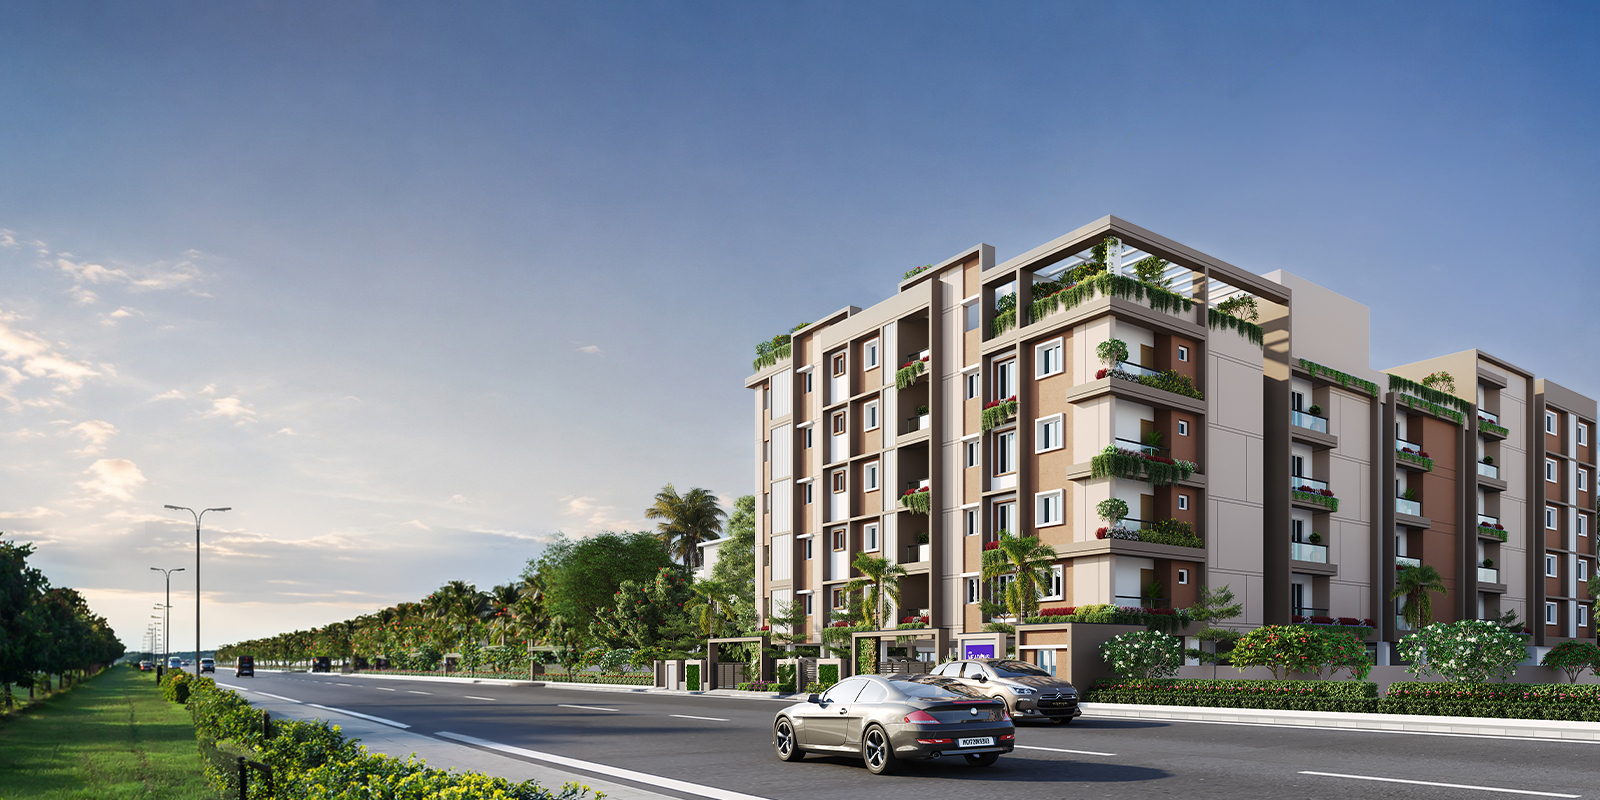
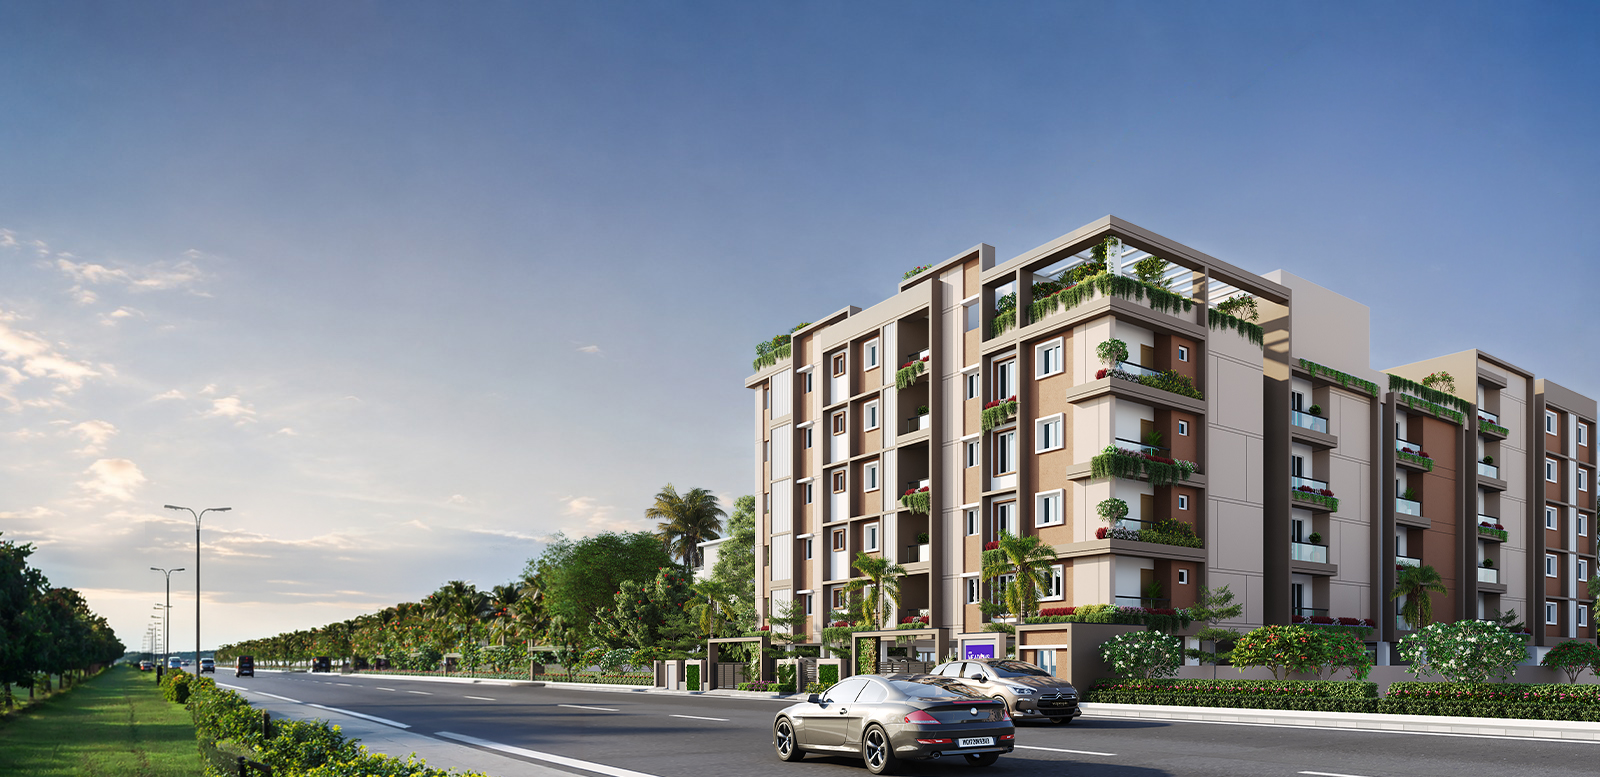
added social media links

diff --git a/style.css b/style.css
@@ -2087,6 +2087,35 @@ button {
     font-size: 0.85rem;
 }
 
+.footer-social-links {
+    display: flex;
+    gap: 12px;
+    margin-top: 20px;
+}
+
+.footer-links .footer-social-links a {
+    width: 38px;
+    height: 38px;
+    border-radius: 50%;
+    background-color: var(--light-purple);
+    color: var(--primary);
+    display: flex;
+    align-items: center;
+    justify-content: center;
+    transition: var(--transition-smooth);
+    border: 1px solid var(--border-color);
+    margin-bottom: 0;
+    padding-left: 0;
+}
+
+.footer-links .footer-social-links a:hover {
+    background-color: var(--primary) !important;
+    color: var(--white) !important;
+    transform: translateY(-3px);
+    box-shadow: var(--shadow-md);
+    padding-left: 0 !important;
+}
+
 .footer-links h4,
 .footer-contact-details h4 {
     font-family: var(--font-heading);

diff --git a/index.html b/index.html
@@ -766,14 +766,14 @@
                             <span class="browser-dot yellow"></span>
                             <span class="browser-dot green"></span>
                         </div>
-                        <span class="browser-address">youtube.com/watch?v=hQBlTHXsWDc</span>
+                        <span class="browser-address">youtube.com/watch?v=AsI9mY4RGso</span>
                         <span class="browser-status-badge live">Walkthrough</span>
                     </div>
                     <div class="browser-content">
-                        <div class="video-placeholder" id="video-placeholder" data-video-id="hQBlTHXsWDc">
+                        <div class="video-placeholder" id="video-placeholder" data-video-id="AsI9mY4RGso">
                             <!-- Video Thumbnail Background -->
                             <div class="video-thumbnail-bg"
-                                style="background-image: url('https://img.youtube.com/vi/hQBlTHXsWDc/maxresdefault.jpg');">
+                                style="background-image: url('https://img.youtube.com/vi/AsI9mY4RGso/maxresdefault.jpg');">
                             </div>
 
                             <!-- Video Header Overlay -->
@@ -803,7 +803,7 @@
                                         <path d="M14 9V5l7 7-7 7v-4.1c-5 0-8.5 1.6-11 5.1 1-5 4-10 11-11z" />
                                     </svg>
                                 </button>
-                                <a href="https://www.youtube.com/watch?v=hQBlTHXsWDc" target="_blank"
+                                <a href="https://www.youtube.com/watch?v=AsI9mY4RGso" target="_blank"
                                     class="video-watch-on-yt">
                                     <span>Watch on</span>
                                     <svg viewBox="0 0 52 12" class="yt-logo-svg" width="52" height="12">
@@ -967,6 +967,17 @@
                         <li><a href="#amenities">Amenities</a></li>
                         <li><a href="#location">Location Advantages</a></li>
                     </ul>
+                    <div class="footer-social-links">
+                        <a href="https://www.facebook.com/assettreehomes" target="_blank" aria-label="Facebook">
+                            <svg width="18" height="18" viewBox="0 0 24 24" fill="currentColor"><path d="M9 8H7v3h2v9h3v-9h3l.5-3H12V6c0-.88.22-1 1-1h2V2h-3c-3.1 0-5 1.57-5 4.5V8z"/></svg>
+                        </a>
+                        <a href="https://www.instagram.com/assettreehomes/" target="_blank" aria-label="Instagram">
+                            <svg width="18" height="18" viewBox="0 0 24 24" fill="none" stroke="currentColor" stroke-width="2" stroke-linecap="round" stroke-linejoin="round"><rect x="2" y="2" width="20" height="20" rx="5" ry="5"/><path d="M16 11.37A4 4 0 1 1 12.63 8 4 4 0 0 1 16 11.37z"/><line x1="17.5" y1="6.5" x2="17.51" y2="6.5"/></svg>
+                        </a>
+                        <a href="https://youtube.com/watch?v=AsI9mY4RGso&feature=youtu.be" target="_blank" aria-label="YouTube">
+                            <svg width="18" height="18" viewBox="0 0 24 24" fill="currentColor"><path d="M23.498 6.163a3.003 3.003 0 0 0-2.11-2.11C19.518 3.545 12 3.545 12 3.545s-7.518 0-9.388.508a3.003 3.003 0 0 0-2.11 2.11C0 8.033 0 12 0 12s0 3.967.502 5.837a3.003 3.003 0 0 0 2.11 2.11c1.87.508 9.388.508 9.388.508s7.518 0 9.388-.508a3.003 3.003 0 0 0 2.11-2.11C24 15.967 24 12 24 12s0-3.967-.502-5.837zM9.545 15.568V8.432L15.818 12l-6.273 3.568z"/></svg>
+                        </a>
+                    </div>
                 </div>
 
                 <div class="footer-contact-details">
@@ -1016,8 +1027,7 @@
                     Enquire Now
                 </h3>
                 <p style="font-size: 0.85rem; color: var(--gray-text); margin-bottom: 20px;">
-                    Please fill out your details below to download the high-resolution PDF brochure, layouts, and
-                    pricing catalogs.
+                    Please fill out your details below and our sales team will get back to you shortly.
                 </p>
 
                 <form id="popup-lead-form" class="lead-form" style="display: flex; flex-direction: column; gap: 16px;">
@@ -1081,9 +1091,9 @@
                 </div>
                 <h4
                     style="font-family: var(--font-heading); font-size: 1.4rem; font-weight: 700; color: var(--primary); margin-bottom: 12px;">
-                    Brochure Downloaded!</h4>
+                    Enquiry Submitted!</h4>
                 <p style="font-size: 0.9rem; color: var(--gray-text); margin-bottom: 24px; line-height: 1.6;">Thank you!
-                    Your brochure download has started. We have also sent a copy to your email address.</p>
+                    We have received your enquiry. Our representative will get in touch with you shortly.</p>
                 <button class="btn btn-primary btn-sm" id="enquiry-success-close-btn"
                     style="padding: 10px 24px;">Close</button>
             </div>

diff --git a/script.js b/script.js
@@ -493,14 +493,6 @@ document.addEventListener("DOMContentLoaded", () => {
                     // Transition to Success Step
                     if (enquiryFormContainer) enquiryFormContainer.style.display = "none";
                     if (enquiryStep3) enquiryStep3.style.display = "block";
-
-                    // Trigger Download
-                    const link = document.createElement("a");
-                    link.href = "assets/Meadows Brochure.pdf"; // Fallback to logo image so download works. Replace with assets/brochure.pdf when available.
-                    link.download = "ATH_Meadows_Brochure.pdf";
-                    document.body.appendChild(link);
-                    link.click();
-                    document.body.removeChild(link);
                 }
             });
         }